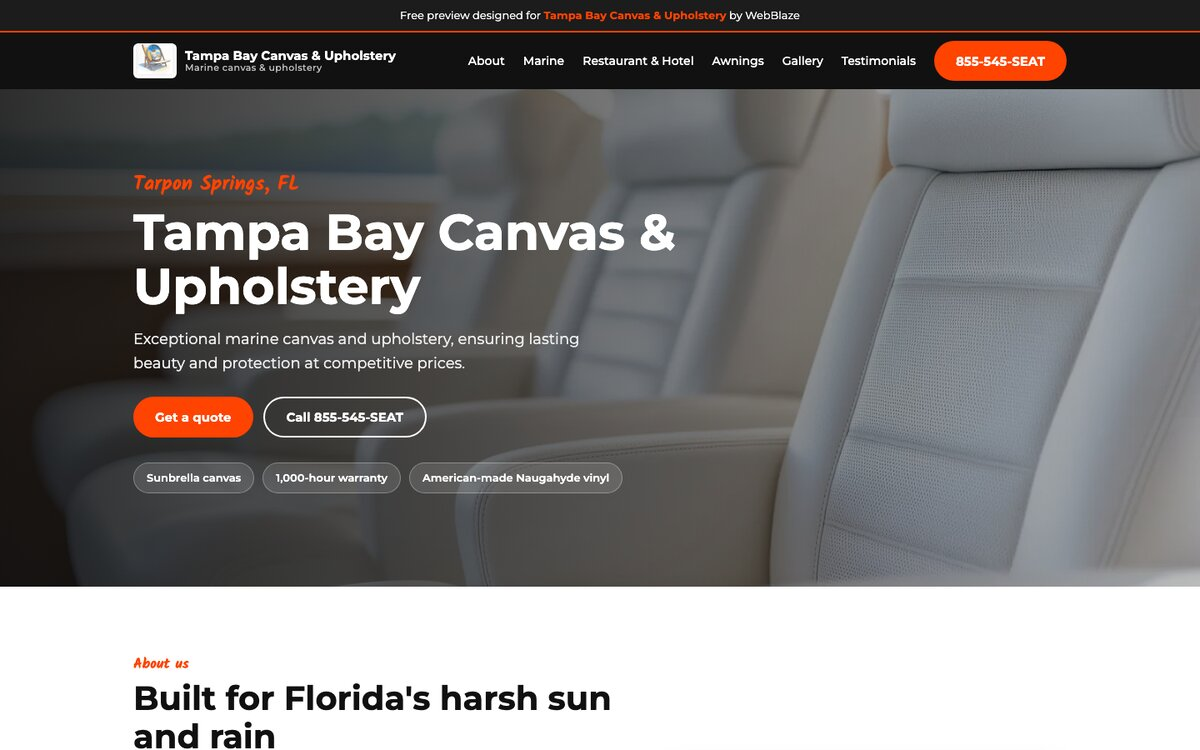
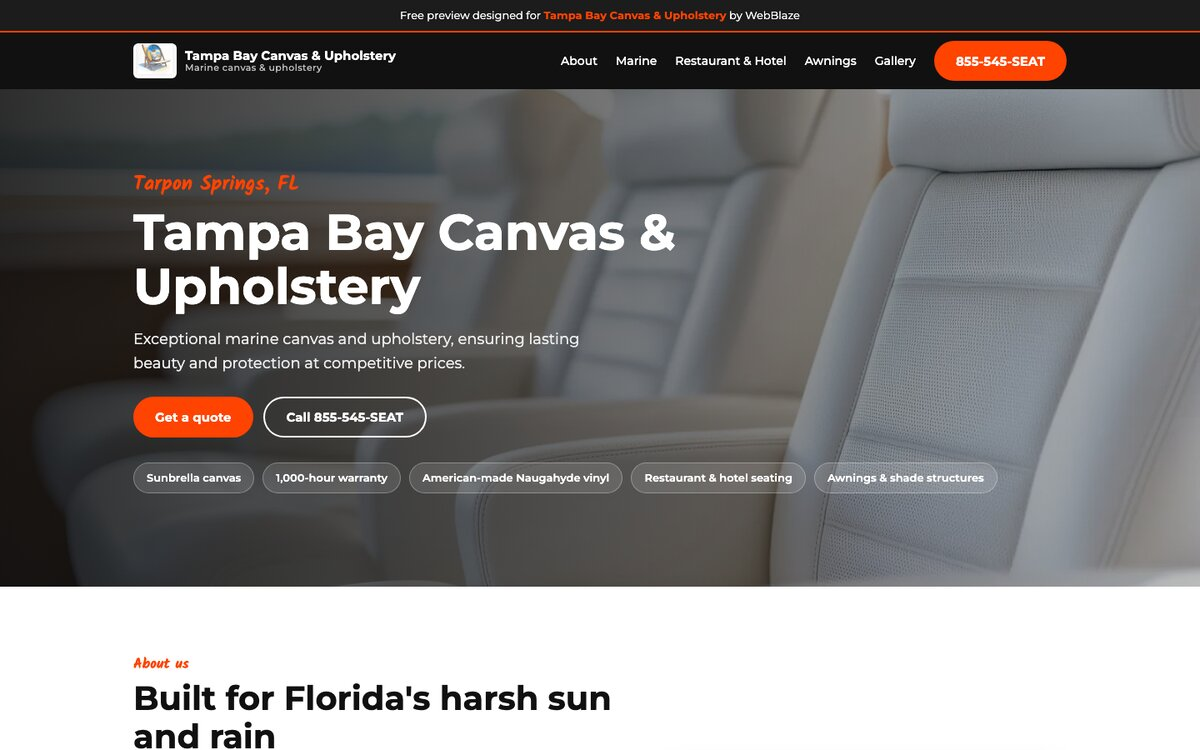
Tampa Bay upholstery preview: commercial lean, photo upload, drop template testimonials

Changed region(s): [[0.5242, 0.6133, 0.8325, 0.6747], [0.4008, 0.0613, 0.7708, 0.092]]

diff --git a/docs/tampabayupholstery/index.html b/docs/tampabayupholstery/index.html
@@ -14,7 +14,7 @@
 <header><div class="wrap nav">
 <a class="brand" href="#top"><img src="img/logo.webp" width="52" height="42" alt="Tampa Bay Canvas &amp; Upholstery logo"><span>Tampa Bay Canvas &amp; Upholstery<small>Marine canvas &amp; upholstery</small></span></a>
 <nav aria-label="Main"><ul>
-<li><a href="#about">About</a></li><li><a href="#marine">Marine</a></li><li><a href="#restaurant-hotel">Restaurant &amp; Hotel</a></li><li><a href="#awnings">Awnings</a></li><li><a href="#gallery">Gallery</a></li><li><a href="#testimonials">Testimonials</a></li><li><a class="btn" href="tel:+18555457328">855-545-SEAT</a></li></ul></nav>
+<li><a href="#about">About</a></li><li><a href="#marine">Marine</a></li><li><a href="#restaurant-hotel">Restaurant &amp; Hotel</a></li><li><a href="#awnings">Awnings</a></li><li><a href="#gallery">Gallery</a></li><li><a class="btn" href="tel:+18555457328">855-545-SEAT</a></li></ul></nav>
 <button class="menu-btn" aria-label="Menu" aria-expanded="false">&#9776;</button>
 </div></header>
 <main id="top">
@@ -25,7 +25,7 @@
 <h1>Tampa Bay Canvas &amp; Upholstery</h1>
 <p class="lead">Exceptional marine canvas and upholstery, ensuring lasting beauty and protection at competitive prices.</p>
 <div class="cta"><a class="btn" href="#quote">Get a quote</a><a class="btn ghost" href="tel:+18555457328">Call 855-545-SEAT</a></div>
-<ul class="chips"><li>Sunbrella canvas</li><li>1,000-hour warranty</li><li>American-made Naugahyde vinyl</li></ul>
+<ul class="chips"><li>Sunbrella canvas</li><li>1,000-hour warranty</li><li>American-made Naugahyde vinyl</li><li>Restaurant &amp; hotel seating</li><li>Awnings &amp; shade structures</li></ul>
 </div></section>
 
 <section id="about"><div class="wrap split">
@@ -41,28 +41,20 @@
 <section class="picker" id="quote"><div class="wrap">
 <div class="center"><p class="eyebrow">Get a quote</p><h2>What do you need?</h2><p class="lede">Pick one and we will start your quote request for you.</p></div>
 <div class="opts" role="group" aria-label="What do you need">
-<button type="button" class="opt" data-k="boat_canvas" aria-pressed="false">Boat canvas<small>Sunbrella</small></button>
-<button type="button" class="opt" data-k="boat_upholstery" aria-pressed="false">Boat upholstery<small>Naugahyde vinyl</small></button>
 <button type="button" class="opt" data-k="awning" aria-pressed="false">Awning<small>Shade structures</small></button>
 <button type="button" class="opt" data-k="restaurant_hotel" aria-pressed="false">Restaurant or hotel<small>Seating</small></button>
+<button type="button" class="opt" data-k="boat_canvas" aria-pressed="false">Boat canvas<small>Sunbrella</small></button>
+<button type="button" class="opt" data-k="boat_upholstery" aria-pressed="false">Boat upholstery<small>Naugahyde vinyl</small></button>
 </div>
 <form id="quote-form" style="max-width:760px;margin:0 auto">
 <div class="row2"><div><label for="name">Name*</label><input id="name" required autocomplete="name"></div><div><label for="email">Email*</label><input id="email" type="email" required autocomplete="email"></div></div>
 <div class="row2"><div><label for="phone">Phone</label><input id="phone" type="tel" autocomplete="tel"></div>
 <div><label for="service">Service</label><select id="service"><option>Give me a quote</option><option>Boat canvas</option><option>Boat upholstery</option><option>Awning or shade structure</option><option>Restaurant or hotel seating</option></select></div></div>
 <div><label for="message">Message</label><textarea id="message" placeholder="Message ..."></textarea></div>
+<div><label for="photos">Photos of your boat or space (optional)</label><input id="photos" type="file" accept="image/*" multiple><div id="fl" style="font-size:13px;color:#bbb;margin-top:6px"></div></div>
 <button class="btn" type="submit">Contact Us</button>
 <div class="thanks" role="status">Thanks! This is a design preview, so nothing was sent.</div>
 </form></div></section>
-
-<section id="marine"><div class="wrap">
-<div class="center"><p class="eyebrow">Marine</p><h2>Marine Upholstery and Canvas Work</h2><p class="lede">Expert marine upholstery and canvas work combines durable, weather-resistant materials with precise craftsmanship to enhance both the comfort and protective functionality of your vessel, ensuring longevity and aesthetic appeal in harsh marine environments.</p></div>
-<div class="four">
-<img src="img/lp-1.webp" width="311" height="185" loading="lazy" alt="Blue marine canvas over a boat helm" >
-<img src="img/lp-2.webp" width="311" height="185" loading="lazy" alt="Bimini top on a boat" >
-<img src="img/lp-3.webp" width="206" height="206" loading="lazy" alt="Embroidered boat seat headrest" >
-<img src="img/lp-4.webp" width="206" height="206" loading="lazy" alt="Diamond-stitched boat bench seat" >
-</div></div></section>
 
 <section class="soft" id="restaurant-hotel"><div class="wrap split rev">
 <div><p class="eyebrow">Restaurant &amp; Hotel</p><h2>Restaurant and Hotel Seating</h2>
@@ -79,18 +71,20 @@
 <img src="img/about-awning.webp" width="635" height="604" loading="lazy" alt="Striped awning">
 </div></section>
 
-<section class="soft" id="gallery"><div class="wrap">
+<section class="soft" id="marine"><div class="wrap">
+<div class="center"><p class="eyebrow">Marine</p><h2>Marine Upholstery and Canvas Work</h2><p class="lede">Expert marine upholstery and canvas work combines durable, weather-resistant materials with precise craftsmanship to enhance both the comfort and protective functionality of your vessel, ensuring longevity and aesthetic appeal in harsh marine environments.</p></div>
+<div class="four">
+<img src="img/lp-1.webp" width="311" height="185" loading="lazy" alt="Blue marine canvas over a boat helm" >
+<img src="img/lp-2.webp" width="311" height="185" loading="lazy" alt="Bimini top on a boat" >
+<img src="img/lp-3.webp" width="206" height="206" loading="lazy" alt="Embroidered boat seat headrest" >
+<img src="img/lp-4.webp" width="206" height="206" loading="lazy" alt="Diamond-stitched boat bench seat" >
+</div></div></section>
+
+<section id="gallery"><div class="wrap">
 <div class="center"><p class="eyebrow">Gallery</p><h2>Product Gallery</h2></div>
 <div class="filters" role="group" aria-label="Filter gallery"><button class="f" data-f="all" aria-pressed="true">All</button><button class="f" data-f="marine" aria-pressed="false">Marine</button><button class="f" data-f="restaurants" aria-pressed="false">Restaurants</button><button class="f" data-f="awnings" aria-pressed="false">Awnings</button></div>
 <div class="grid">
 <figure data-c="marine"><img src="img/pg-1.webp" width="241" height="244" loading="lazy" alt="Boat Seat by Tampa Bay Canvas &amp; Upholstery"><figcaption>Boat Seat</figcaption></figure><figure data-c="marine"><img src="img/pg-2.webp" width="241" height="244" loading="lazy" alt="Boat Seat by Tampa Bay Canvas &amp; Upholstery"><figcaption>Boat Seat</figcaption></figure><figure data-c="marine"><img src="img/pg-3.webp" width="241" height="244" loading="lazy" alt="Golf Seat by Tampa Bay Canvas &amp; Upholstery"><figcaption>Golf Seat</figcaption></figure><figure data-c="marine"><img src="img/pg-4.webp" width="241" height="244" loading="lazy" alt="Jet Ski by Tampa Bay Canvas &amp; Upholstery"><figcaption>Jet Ski</figcaption></figure><figure data-c="awnings"><img src="img/pg-5.webp" width="241" height="244" loading="lazy" alt="Awning by Tampa Bay Canvas &amp; Upholstery"><figcaption>Awning</figcaption></figure><figure data-c="restaurants"><img src="img/pg-6.webp" width="241" height="244" loading="lazy" alt="Restaurant by Tampa Bay Canvas &amp; Upholstery"><figcaption>Restaurant</figcaption></figure><figure data-c="awnings"><img src="img/pg-7.webp" width="241" height="244" loading="lazy" alt="Awning by Tampa Bay Canvas &amp; Upholstery"><figcaption>Awning</figcaption></figure><figure data-c="marine"><img src="img/pg-8.webp" width="241" height="244" loading="lazy" alt="Boat Seat by Tampa Bay Canvas &amp; Upholstery"><figcaption>Boat Seat</figcaption></figure><figure data-c="marine"><img src="img/lp-1.webp" width="311" height="185" loading="lazy" alt="Marine canvas by Tampa Bay Canvas &amp; Upholstery"><figcaption>Marine</figcaption></figure><figure data-c="marine"><img src="img/lp-2.webp" width="311" height="185" loading="lazy" alt="Marine canvas by Tampa Bay Canvas &amp; Upholstery"><figcaption>Marine</figcaption></figure><figure data-c="marine"><img src="img/lp-3.webp" width="206" height="206" loading="lazy" alt="Marine upholstery by Tampa Bay Canvas &amp; Upholstery"><figcaption>Marine</figcaption></figure><figure data-c="marine"><img src="img/lp-4.webp" width="206" height="206" loading="lazy" alt="Marine upholstery by Tampa Bay Canvas &amp; Upholstery"><figcaption>Marine</figcaption></figure><figure data-c="marine"><img src="img/lp-6.webp" width="206" height="206" loading="lazy" alt="Marine upholstery by Tampa Bay Canvas &amp; Upholstery"><figcaption>Marine</figcaption></figure><figure data-c="marine"><img src="img/lp-7.webp" width="206" height="206" loading="lazy" alt="Marine upholstery by Tampa Bay Canvas &amp; Upholstery"><figcaption>Marine</figcaption></figure><figure data-c="marine"><img src="img/lp-8.webp" width="960" height="720" loading="lazy" alt="Marine by Tampa Bay Canvas &amp; Upholstery"><figcaption>Marine</figcaption></figure><figure data-c="marine"><img src="img/g-pillows.webp" width="900" height="504" loading="lazy" alt="Boat seating and cushions"><figcaption>Marine</figcaption></figure><figure data-c="marine"><img src="img/g-powerboat.webp" width="900" height="504" loading="lazy" alt="Boat seating and cushions"><figcaption>Marine</figcaption></figure><figure data-c="marine"><img src="img/g-whiteboat.webp" width="900" height="504" loading="lazy" alt="Boat seating and cushions"><figcaption>Marine</figcaption></figure>
-</div></div></section>
-
-<section id="testimonials"><div class="wrap">
-<div class="center"><p class="eyebrow">Reviews</p><h2>Testimonials</h2></div>
-<div class="rev-g">
-<blockquote>&ldquo;Tampa Bay Upholstery exceeded my expectations! As a first-time boat owner, I was nervous, but they made the whole process easy. The quality is outstanding, and my boat looks brand new. Highly recommend Tampa Bay Upholstery.&rdquo;<cite>Barnaby Finch</cite></blockquote>
-<blockquote>&ldquo;I needed a custom canvas cover for my sailboat. Tampa Bay Upholstery delivered perfectly. The fit is precise, and the material is top-notch. I'm very happy with their service and the final product. Tampa Bay Upholstery is the way to go!&rdquo;<cite>Coralie Meadows</cite></blockquote>
 </div></div></section>
 
 <section class="soft" id="contact"><div class="wrap contact">

diff --git a/public/tampabayupholstery/index.html b/public/tampabayupholstery/index.html
@@ -14,7 +14,7 @@
 <header><div class="wrap nav">
 <a class="brand" href="#top"><img src="img/logo.webp" width="52" height="42" alt="Tampa Bay Canvas &amp; Upholstery logo"><span>Tampa Bay Canvas &amp; Upholstery<small>Marine canvas &amp; upholstery</small></span></a>
 <nav aria-label="Main"><ul>
-<li><a href="#about">About</a></li><li><a href="#marine">Marine</a></li><li><a href="#restaurant-hotel">Restaurant &amp; Hotel</a></li><li><a href="#awnings">Awnings</a></li><li><a href="#gallery">Gallery</a></li><li><a href="#testimonials">Testimonials</a></li><li><a class="btn" href="tel:+18555457328">855-545-SEAT</a></li></ul></nav>
+<li><a href="#about">About</a></li><li><a href="#marine">Marine</a></li><li><a href="#restaurant-hotel">Restaurant &amp; Hotel</a></li><li><a href="#awnings">Awnings</a></li><li><a href="#gallery">Gallery</a></li><li><a class="btn" href="tel:+18555457328">855-545-SEAT</a></li></ul></nav>
 <button class="menu-btn" aria-label="Menu" aria-expanded="false">&#9776;</button>
 </div></header>
 <main id="top">
@@ -25,7 +25,7 @@
 <h1>Tampa Bay Canvas &amp; Upholstery</h1>
 <p class="lead">Exceptional marine canvas and upholstery, ensuring lasting beauty and protection at competitive prices.</p>
 <div class="cta"><a class="btn" href="#quote">Get a quote</a><a class="btn ghost" href="tel:+18555457328">Call 855-545-SEAT</a></div>
-<ul class="chips"><li>Sunbrella canvas</li><li>1,000-hour warranty</li><li>American-made Naugahyde vinyl</li></ul>
+<ul class="chips"><li>Sunbrella canvas</li><li>1,000-hour warranty</li><li>American-made Naugahyde vinyl</li><li>Restaurant &amp; hotel seating</li><li>Awnings &amp; shade structures</li></ul>
 </div></section>
 
 <section id="about"><div class="wrap split">
@@ -41,28 +41,20 @@
 <section class="picker" id="quote"><div class="wrap">
 <div class="center"><p class="eyebrow">Get a quote</p><h2>What do you need?</h2><p class="lede">Pick one and we will start your quote request for you.</p></div>
 <div class="opts" role="group" aria-label="What do you need">
-<button type="button" class="opt" data-k="boat_canvas" aria-pressed="false">Boat canvas<small>Sunbrella</small></button>
-<button type="button" class="opt" data-k="boat_upholstery" aria-pressed="false">Boat upholstery<small>Naugahyde vinyl</small></button>
 <button type="button" class="opt" data-k="awning" aria-pressed="false">Awning<small>Shade structures</small></button>
 <button type="button" class="opt" data-k="restaurant_hotel" aria-pressed="false">Restaurant or hotel<small>Seating</small></button>
+<button type="button" class="opt" data-k="boat_canvas" aria-pressed="false">Boat canvas<small>Sunbrella</small></button>
+<button type="button" class="opt" data-k="boat_upholstery" aria-pressed="false">Boat upholstery<small>Naugahyde vinyl</small></button>
 </div>
 <form id="quote-form" style="max-width:760px;margin:0 auto">
 <div class="row2"><div><label for="name">Name*</label><input id="name" required autocomplete="name"></div><div><label for="email">Email*</label><input id="email" type="email" required autocomplete="email"></div></div>
 <div class="row2"><div><label for="phone">Phone</label><input id="phone" type="tel" autocomplete="tel"></div>
 <div><label for="service">Service</label><select id="service"><option>Give me a quote</option><option>Boat canvas</option><option>Boat upholstery</option><option>Awning or shade structure</option><option>Restaurant or hotel seating</option></select></div></div>
 <div><label for="message">Message</label><textarea id="message" placeholder="Message ..."></textarea></div>
+<div><label for="photos">Photos of your boat or space (optional)</label><input id="photos" type="file" accept="image/*" multiple><div id="fl" style="font-size:13px;color:#bbb;margin-top:6px"></div></div>
 <button class="btn" type="submit">Contact Us</button>
 <div class="thanks" role="status">Thanks! This is a design preview, so nothing was sent.</div>
 </form></div></section>
-
-<section id="marine"><div class="wrap">
-<div class="center"><p class="eyebrow">Marine</p><h2>Marine Upholstery and Canvas Work</h2><p class="lede">Expert marine upholstery and canvas work combines durable, weather-resistant materials with precise craftsmanship to enhance both the comfort and protective functionality of your vessel, ensuring longevity and aesthetic appeal in harsh marine environments.</p></div>
-<div class="four">
-<img src="img/lp-1.webp" width="311" height="185" loading="lazy" alt="Blue marine canvas over a boat helm" >
-<img src="img/lp-2.webp" width="311" height="185" loading="lazy" alt="Bimini top on a boat" >
-<img src="img/lp-3.webp" width="206" height="206" loading="lazy" alt="Embroidered boat seat headrest" >
-<img src="img/lp-4.webp" width="206" height="206" loading="lazy" alt="Diamond-stitched boat bench seat" >
-</div></div></section>
 
 <section class="soft" id="restaurant-hotel"><div class="wrap split rev">
 <div><p class="eyebrow">Restaurant &amp; Hotel</p><h2>Restaurant and Hotel Seating</h2>
@@ -79,18 +71,20 @@
 <img src="img/about-awning.webp" width="635" height="604" loading="lazy" alt="Striped awning">
 </div></section>
 
-<section class="soft" id="gallery"><div class="wrap">
+<section class="soft" id="marine"><div class="wrap">
+<div class="center"><p class="eyebrow">Marine</p><h2>Marine Upholstery and Canvas Work</h2><p class="lede">Expert marine upholstery and canvas work combines durable, weather-resistant materials with precise craftsmanship to enhance both the comfort and protective functionality of your vessel, ensuring longevity and aesthetic appeal in harsh marine environments.</p></div>
+<div class="four">
+<img src="img/lp-1.webp" width="311" height="185" loading="lazy" alt="Blue marine canvas over a boat helm" >
+<img src="img/lp-2.webp" width="311" height="185" loading="lazy" alt="Bimini top on a boat" >
+<img src="img/lp-3.webp" width="206" height="206" loading="lazy" alt="Embroidered boat seat headrest" >
+<img src="img/lp-4.webp" width="206" height="206" loading="lazy" alt="Diamond-stitched boat bench seat" >
+</div></div></section>
+
+<section id="gallery"><div class="wrap">
 <div class="center"><p class="eyebrow">Gallery</p><h2>Product Gallery</h2></div>
 <div class="filters" role="group" aria-label="Filter gallery"><button class="f" data-f="all" aria-pressed="true">All</button><button class="f" data-f="marine" aria-pressed="false">Marine</button><button class="f" data-f="restaurants" aria-pressed="false">Restaurants</button><button class="f" data-f="awnings" aria-pressed="false">Awnings</button></div>
 <div class="grid">
 <figure data-c="marine"><img src="img/pg-1.webp" width="241" height="244" loading="lazy" alt="Boat Seat by Tampa Bay Canvas &amp; Upholstery"><figcaption>Boat Seat</figcaption></figure><figure data-c="marine"><img src="img/pg-2.webp" width="241" height="244" loading="lazy" alt="Boat Seat by Tampa Bay Canvas &amp; Upholstery"><figcaption>Boat Seat</figcaption></figure><figure data-c="marine"><img src="img/pg-3.webp" width="241" height="244" loading="lazy" alt="Golf Seat by Tampa Bay Canvas &amp; Upholstery"><figcaption>Golf Seat</figcaption></figure><figure data-c="marine"><img src="img/pg-4.webp" width="241" height="244" loading="lazy" alt="Jet Ski by Tampa Bay Canvas &amp; Upholstery"><figcaption>Jet Ski</figcaption></figure><figure data-c="awnings"><img src="img/pg-5.webp" width="241" height="244" loading="lazy" alt="Awning by Tampa Bay Canvas &amp; Upholstery"><figcaption>Awning</figcaption></figure><figure data-c="restaurants"><img src="img/pg-6.webp" width="241" height="244" loading="lazy" alt="Restaurant by Tampa Bay Canvas &amp; Upholstery"><figcaption>Restaurant</figcaption></figure><figure data-c="awnings"><img src="img/pg-7.webp" width="241" height="244" loading="lazy" alt="Awning by Tampa Bay Canvas &amp; Upholstery"><figcaption>Awning</figcaption></figure><figure data-c="marine"><img src="img/pg-8.webp" width="241" height="244" loading="lazy" alt="Boat Seat by Tampa Bay Canvas &amp; Upholstery"><figcaption>Boat Seat</figcaption></figure><figure data-c="marine"><img src="img/lp-1.webp" width="311" height="185" loading="lazy" alt="Marine canvas by Tampa Bay Canvas &amp; Upholstery"><figcaption>Marine</figcaption></figure><figure data-c="marine"><img src="img/lp-2.webp" width="311" height="185" loading="lazy" alt="Marine canvas by Tampa Bay Canvas &amp; Upholstery"><figcaption>Marine</figcaption></figure><figure data-c="marine"><img src="img/lp-3.webp" width="206" height="206" loading="lazy" alt="Marine upholstery by Tampa Bay Canvas &amp; Upholstery"><figcaption>Marine</figcaption></figure><figure data-c="marine"><img src="img/lp-4.webp" width="206" height="206" loading="lazy" alt="Marine upholstery by Tampa Bay Canvas &amp; Upholstery"><figcaption>Marine</figcaption></figure><figure data-c="marine"><img src="img/lp-6.webp" width="206" height="206" loading="lazy" alt="Marine upholstery by Tampa Bay Canvas &amp; Upholstery"><figcaption>Marine</figcaption></figure><figure data-c="marine"><img src="img/lp-7.webp" width="206" height="206" loading="lazy" alt="Marine upholstery by Tampa Bay Canvas &amp; Upholstery"><figcaption>Marine</figcaption></figure><figure data-c="marine"><img src="img/lp-8.webp" width="960" height="720" loading="lazy" alt="Marine by Tampa Bay Canvas &amp; Upholstery"><figcaption>Marine</figcaption></figure><figure data-c="marine"><img src="img/g-pillows.webp" width="900" height="504" loading="lazy" alt="Boat seating and cushions"><figcaption>Marine</figcaption></figure><figure data-c="marine"><img src="img/g-powerboat.webp" width="900" height="504" loading="lazy" alt="Boat seating and cushions"><figcaption>Marine</figcaption></figure><figure data-c="marine"><img src="img/g-whiteboat.webp" width="900" height="504" loading="lazy" alt="Boat seating and cushions"><figcaption>Marine</figcaption></figure>
-</div></div></section>
-
-<section id="testimonials"><div class="wrap">
-<div class="center"><p class="eyebrow">Reviews</p><h2>Testimonials</h2></div>
-<div class="rev-g">
-<blockquote>&ldquo;Tampa Bay Upholstery exceeded my expectations! As a first-time boat owner, I was nervous, but they made the whole process easy. The quality is outstanding, and my boat looks brand new. Highly recommend Tampa Bay Upholstery.&rdquo;<cite>Barnaby Finch</cite></blockquote>
-<blockquote>&ldquo;I needed a custom canvas cover for my sailboat. Tampa Bay Upholstery delivered perfectly. The fit is precise, and the material is top-notch. I'm very happy with their service and the final product. Tampa Bay Upholstery is the way to go!&rdquo;<cite>Coralie Meadows</cite></blockquote>
 </div></div></section>
 
 <section class="soft" id="contact"><div class="wrap contact">

diff --git a/docs/tampabayupholstery/site.js b/docs/tampabayupholstery/site.js
@@ -15,6 +15,7 @@ document.getElementById('quote-form').scrollIntoView({behavior:'smooth',block:'c
 })});
 sel.addEventListener('change',function(){opts.forEach(function(b){b.setAttribute('aria-pressed',T[b.dataset.k][0]===sel.value?'true':'false')})});
 document.querySelectorAll('form').forEach(function(f){f.addEventListener('submit',function(e){e.preventDefault();f.querySelector('.thanks').classList.add('show')})});
+var ph=document.getElementById('photos');ph.addEventListener('change',function(){document.getElementById('fl').textContent=[].map.call(ph.files,function(f){return f.name}).join(', ')});
 var fs=document.querySelectorAll('.f'),figs=document.querySelectorAll('.grid figure');
 fs.forEach(function(b){b.addEventListener('click',function(){
 fs.forEach(function(x){x.setAttribute('aria-pressed','false')});b.setAttribute('aria-pressed','true');

diff --git a/public/tampabayupholstery/site.js b/public/tampabayupholstery/site.js
@@ -15,6 +15,7 @@ document.getElementById('quote-form').scrollIntoView({behavior:'smooth',block:'c
 })});
 sel.addEventListener('change',function(){opts.forEach(function(b){b.setAttribute('aria-pressed',T[b.dataset.k][0]===sel.value?'true':'false')})});
 document.querySelectorAll('form').forEach(function(f){f.addEventListener('submit',function(e){e.preventDefault();f.querySelector('.thanks').classList.add('show')})});
+var ph=document.getElementById('photos');ph.addEventListener('change',function(){document.getElementById('fl').textContent=[].map.call(ph.files,function(f){return f.name}).join(', ')});
 var fs=document.querySelectorAll('.f'),figs=document.querySelectorAll('.grid figure');
 fs.forEach(function(b){b.addEventListener('click',function(){
 fs.forEach(function(x){x.setAttribute('aria-pressed','false')});b.setAttribute('aria-pressed','true');
